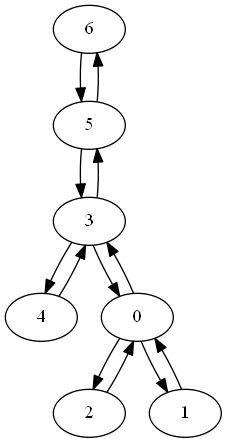
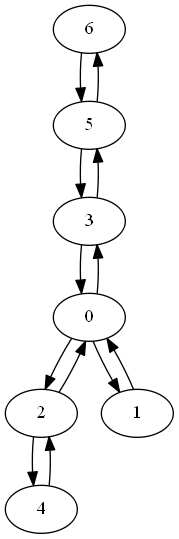
used same graph in prim and kruskal for verification

diff --git a/algorithms/30-prims_algorithm/main.cpp b/algorithms/30-prims_algorithm/main.cpp
@@ -11,11 +11,11 @@ int main(int argc, char** argv) {
     graph.addConnection(0, 1, 2);
     graph.addConnection(0, 2, 3);
     graph.addConnection(0, 3, 3);
-    graph.addConnection(1, 3, 4);
+    graph.addConnection(1, 2, 4);
     graph.addConnection(1, 4, 3);
-    graph.addConnection(2, 5, 7);
-    graph.addConnection(3, 4, 1);
-    graph.addConnection(3, 5, 6);
+    graph.addConnection(2, 3, 5);
+    graph.addConnection(2, 4, 1);
+    graph.addConnection(3, 5, 7);
     graph.addConnection(4, 5, 8);
     graph.addConnection(5, 6, 9);
     graph.draw("graph.dot");
